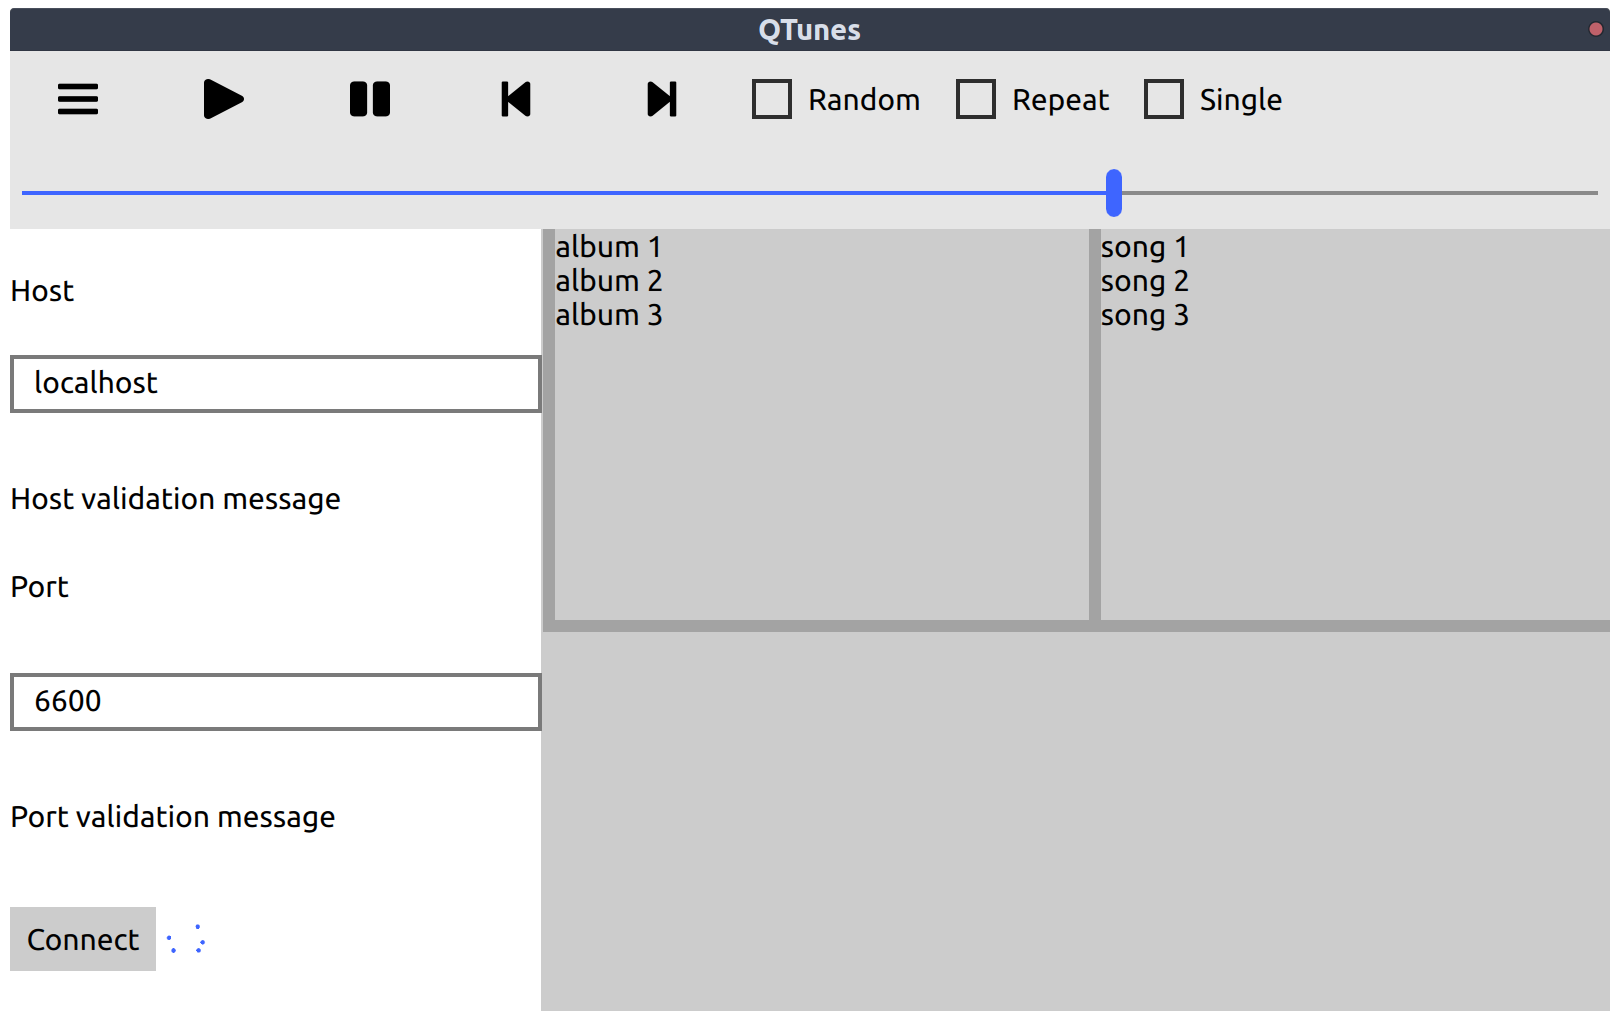
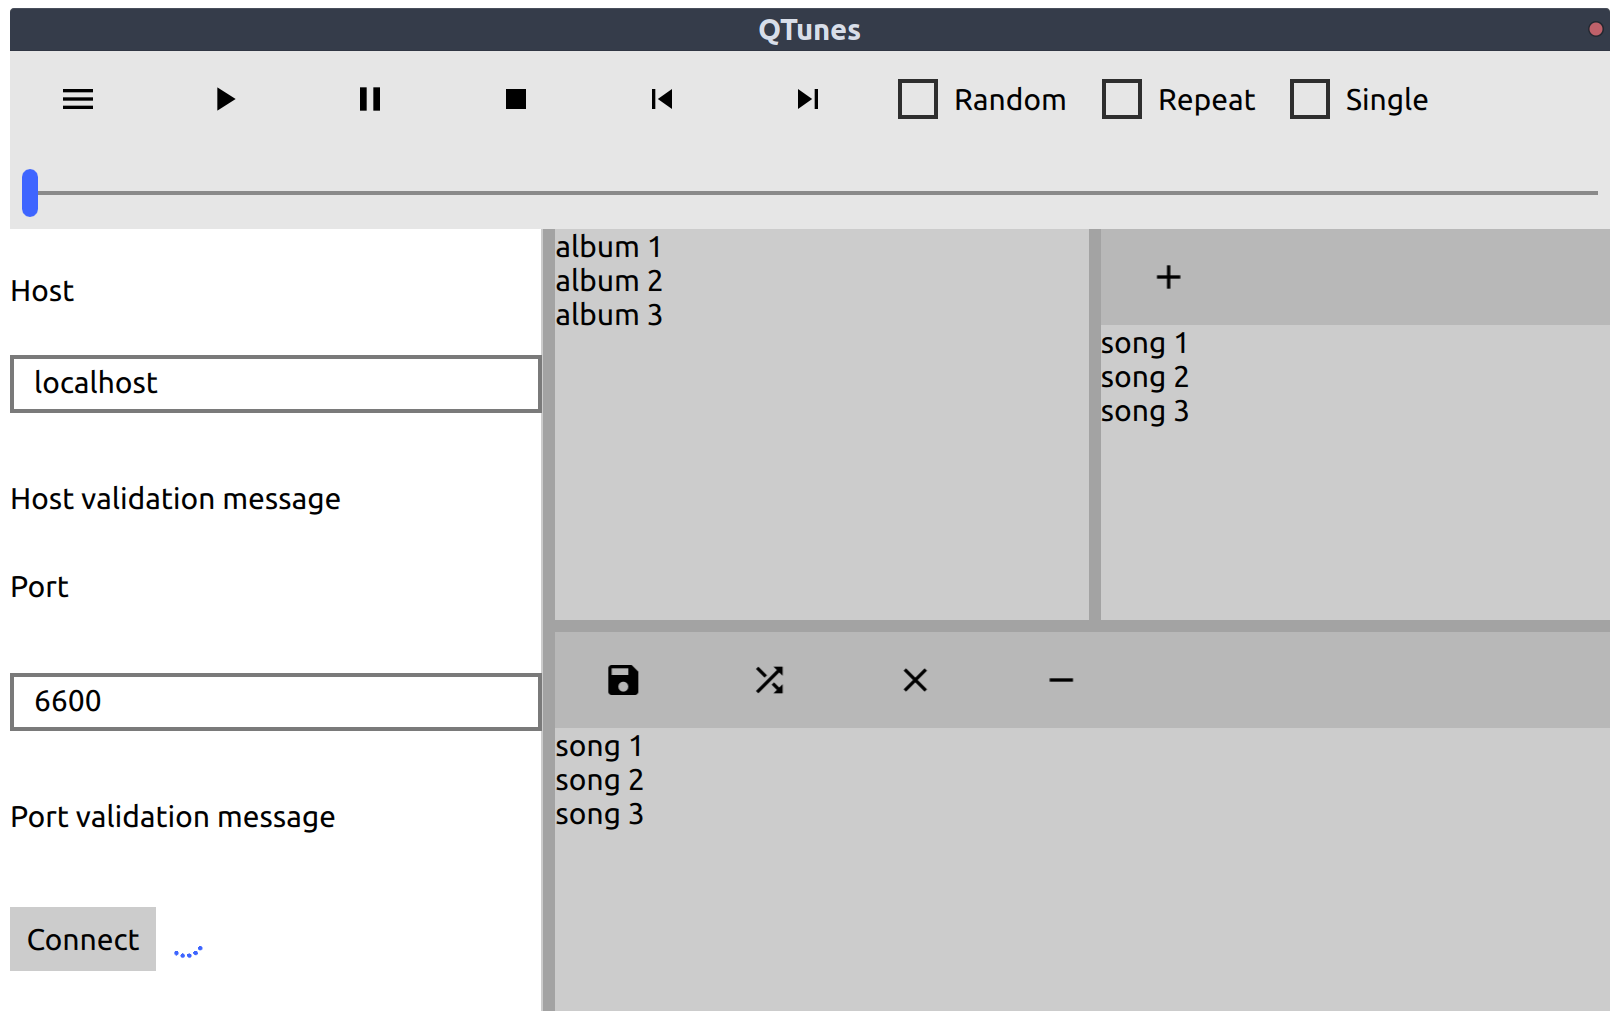
Update the screenshots

diff --git a/README.md b/README.md
@@ -7,3 +7,5 @@ Here are some screenshots of what it looks like so far:
 ![main window](screenshots/screenshot_mainwindow.png)
 
 ![connection settings](screenshots/screenshot_connection_settings.png)
+
+It uses Material icons.
